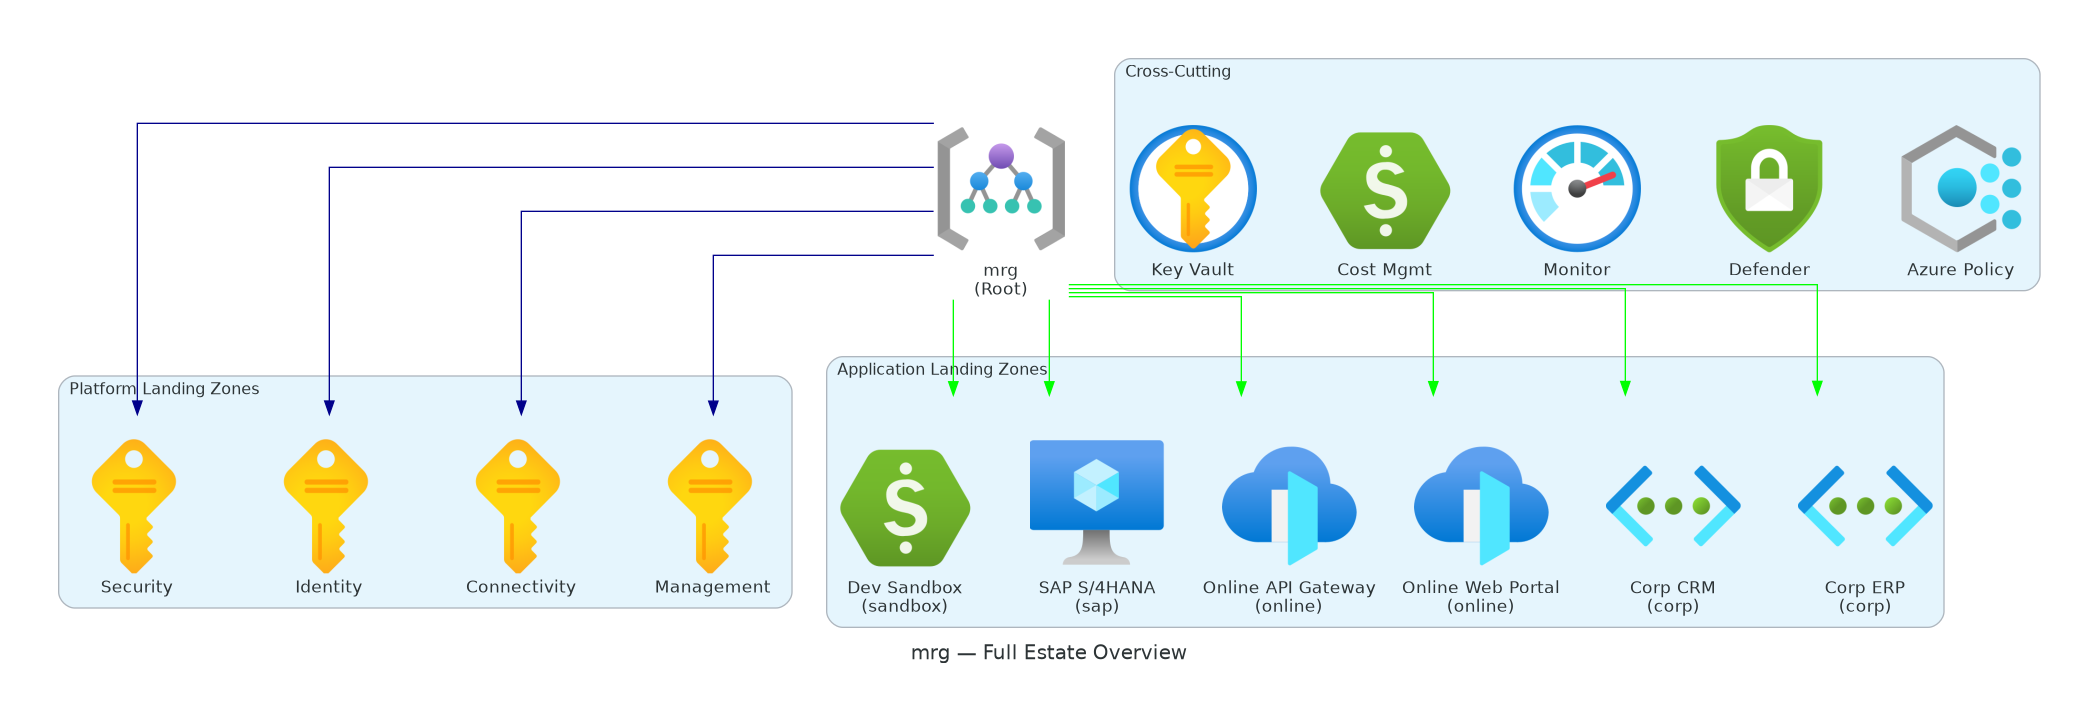
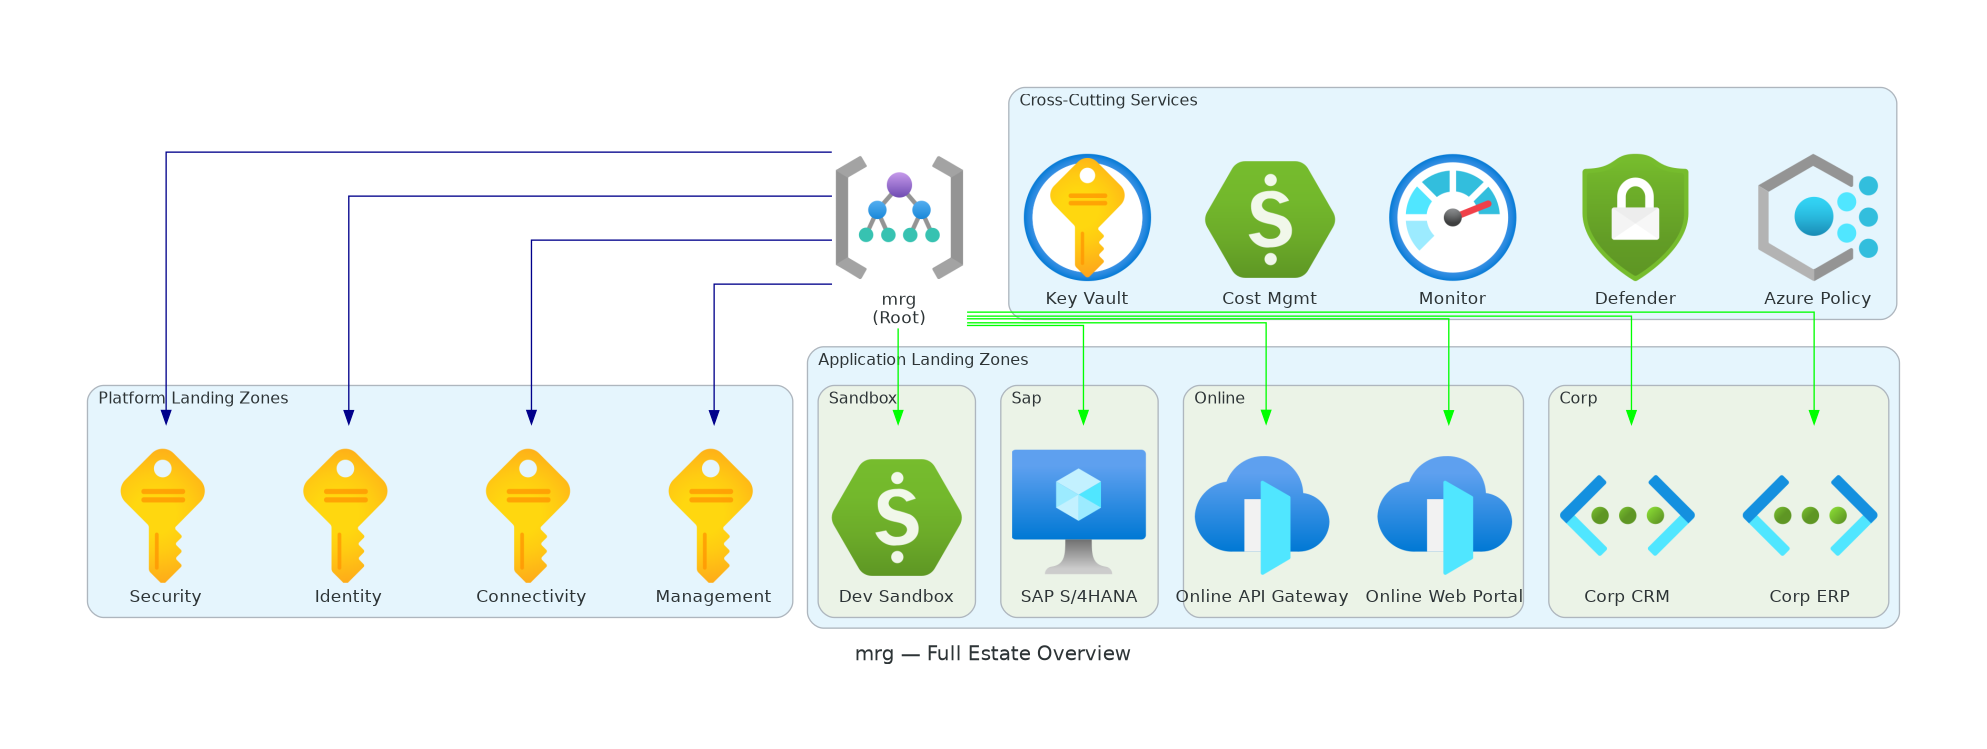
fix(diagrams): improve layout spacing and proportions
- Add nodesep to all TDD diagrams (prevents horizontal squishing)
- Increase pad and ranksep for better breathing room
- Switch management/identity/security/app-lz to LR direction (wider layout)
- Switch connectivity to TB (better for nested subnet clusters)
- Restructure estate overview: group app LZs by archetype (Corp/Online/Sap/Sandbox)
- Regenerate all 11 PNG diagrams with improved layouts

Changed region(s): [[0.0, 0.0612, 0.9985, 0.9179], [0.3744, 0.3672, 0.4056, 0.3978]]

diff --git a/src/tools/python_diagram_generator.py b/src/tools/python_diagram_generator.py
@@ -448,7 +448,7 @@ class DiagramEngine:
         with Diagram(
             f"Platform Management — {sub}",
             filename=outpath, show=False, direction="TB",
-            graph_attr={"bgcolor": "white", "pad": "0.5", "ranksep": "0.8"},
+            graph_attr={"bgcolor": "white", "pad": "0.8", "ranksep": "1.0", "nodesep": "0.6"},
         ):
             with Cluster(f"Subscription: {sub}\n({loc})"):
                 with Cluster("Monitoring & Analytics"):
@@ -472,8 +472,8 @@ class DiagramEngine:
     def _tdd_connectivity(self, outpath: str, sub: str, loc: str) -> None:
         with Diagram(
             f"Platform Connectivity — {sub}",
-            filename=outpath, show=False, direction="LR",
-            graph_attr={"bgcolor": "white", "pad": "0.5", "ranksep": "1.0"},
+            filename=outpath, show=False, direction="TB",
+            graph_attr={"bgcolor": "white", "pad": "0.8", "ranksep": "1.0", "nodesep": "0.6"},
         ):
             with Cluster(f"Subscription: {sub}\n({loc})"):
                 with Cluster("Hub VNet — 10.0.0.0/16"):
@@ -497,8 +497,8 @@ class DiagramEngine:
     def _tdd_identity(self, outpath: str, sub: str, loc: str) -> None:
         with Diagram(
             f"Platform Identity — {sub}",
-            filename=outpath, show=False, direction="TB",
-            graph_attr={"bgcolor": "white", "pad": "0.5", "ranksep": "0.8"},
+            filename=outpath, show=False, direction="LR",
+            graph_attr={"bgcolor": "white", "pad": "0.8", "ranksep": "1.0", "nodesep": "0.6"},
         ):
             with Cluster(f"Subscription: {sub}\n({loc})"):
                 with Cluster("Identity Services"):
@@ -520,8 +520,8 @@ class DiagramEngine:
     def _tdd_security(self, outpath: str, sub: str, loc: str) -> None:
         with Diagram(
             f"Platform Security — {sub}",
-            filename=outpath, show=False, direction="TB",
-            graph_attr={"bgcolor": "white", "pad": "0.5", "ranksep": "0.8"},
+            filename=outpath, show=False, direction="LR",
+            graph_attr={"bgcolor": "white", "pad": "0.8", "ranksep": "1.0", "nodesep": "0.6"},
         ):
             with Cluster(f"Subscription: {sub}\n({loc})"):
                 with Cluster("Security Operations Center"):
@@ -546,8 +546,8 @@ class DiagramEngine:
     ) -> None:
         with Diagram(
             f"{display_name} Landing Zone — {sub}",
-            filename=outpath, show=False, direction="TB",
-            graph_attr={"bgcolor": "white", "pad": "0.5", "ranksep": "0.8"},
+            filename=outpath, show=False, direction="LR",
+            graph_attr={"bgcolor": "white", "pad": "0.8", "ranksep": "1.0", "nodesep": "0.6"},
         ):
             with Cluster(f"Subscription: {sub}\n({loc}) — {profile}"):
                 with Cluster("Networking"):
@@ -623,45 +623,51 @@ class DiagramEngine:
     ) -> str:
         """Generate full-estate overview showing all landing zones."""
         outpath = str(self.output_dir / filename)
-        platform_lzs = subscriptions_config.get("platform", {})
         app_lzs = {
             k: v for k, v in subscriptions_config.get("application", {}).items()
             if not k.startswith("_")
         }
+
+        # Group app LZs by profile for balanced layout
+        app_by_profile: dict[str, list[tuple[str, str]]] = {}
+        for key, cfg in app_lzs.items():
+            profile = cfg.get("profile", "corp")
+            display = cfg.get("display_name", key)
+            app_by_profile.setdefault(profile, []).append((key, display))
 
         with Diagram(
             f"{mg_prefix} — Full Estate Overview",
             filename=outpath,
             show=False,
             direction="TB",
-            graph_attr={"bgcolor": "white", "pad": "0.5", "ranksep": "1.0"},
+            graph_attr={"bgcolor": "white", "pad": "0.8", "ranksep": "1.0", "nodesep": "0.5"},
         ):
             root = ManagementGroups(f"{mg_prefix}\n(Root)")
 
             with Cluster("Platform Landing Zones"):
-                plat_nodes = []
-                for name in ["Management", "Connectivity", "Identity", "Security"]:
-                    plat_nodes.append(Subscriptions(name))
+                mgmt = Subscriptions("Management")
+                conn = Subscriptions("Connectivity")
+                ident = Subscriptions("Identity")
+                sec = Subscriptions("Security")
+                plat_nodes = [mgmt, conn, ident, sec]
 
             with Cluster("Application Landing Zones"):
                 app_nodes = []
-                for key, cfg in app_lzs.items():
-                    display = cfg.get("display_name", key)
-                    profile = cfg.get("profile", "corp")
+                for profile_name, entries in app_by_profile.items():
                     icon_type = {
                         "corp": "vnet", "online": "front_door",
                         "sap": "vm", "sandbox": "cost_management",
-                    }.get(profile, "resource_group")
-                    app_nodes.append(_icon(icon_type, f"{display}\n({profile})"))
+                    }.get(profile_name, "resource_group")
+                    with Cluster(profile_name.title()):
+                        for _key, display in entries:
+                            app_nodes.append(_icon(icon_type, f"{display}"))
 
-            with Cluster("Cross-Cutting"):
-                cross = [
-                    Policy("Azure Policy"),
-                    MicrosoftDefenderForCloud("Defender"),
-                    Monitor("Monitor"),
-                    CostManagement("Cost Mgmt"),
-                    KeyVaults("Key Vault"),
-                ]
+            with Cluster("Cross-Cutting Services"):
+                policy = Policy("Azure Policy")
+                defender = MicrosoftDefenderForCloud("Defender")
+                monitor = Monitor("Monitor")
+                cost = CostManagement("Cost Mgmt")
+                kv = KeyVaults("Key Vault")
 
             root >> Edge(color="darkblue") >> plat_nodes
             if app_nodes:
